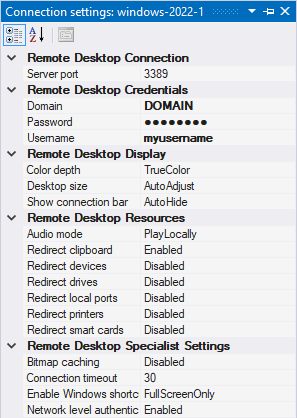
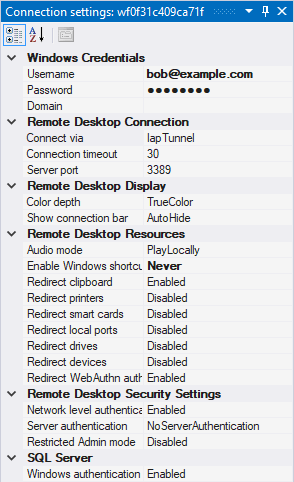
Document connection settings

diff --git a/sources/Google.Solutions.IapDesktop.Extensions.Session/Settings/ConnectionSettings.cs b/sources/Google.Solutions.IapDesktop.Extensions.Session/Settings/ConnectionSettings.cs
@@ -95,7 +95,7 @@ namespace Google.Solutions.IapDesktop.Extensions.Session.Settings
                 _ => true);
             this.RdpConnectionBar = RegistryEnumSetting<RdpConnectionBarState>.FromKey(
                 "ConnectionBar",
-                "Show connection bar",
+                "Connection bar",
                 "Show connection bar in full-screen mode.",
                 Categories.RdpDisplay,
                 RdpConnectionBarState._Default,
@@ -215,7 +215,7 @@ namespace Google.Solutions.IapDesktop.Extensions.Session.Settings
                 key);
             this.RdpHookWindowsKeys = RegistryEnumSetting<RdpHookWindowsKeys>.FromKey(
                 "RdpHookWindowsKeys",
-                "Enable Windows shortcuts",
+                "Windows shortcuts",
                 "Enable Windows shortcuts (like Win+R)",
                 Categories.RdpResources,
                 Protocol.Rdp.RdpHookWindowsKeys._Default,

diff --git a/sources/Google.Solutions.IapDesktop.Extensions.Session/Protocol/Rdp/RdpParameters.cs b/sources/Google.Solutions.IapDesktop.Extensions.Session/Protocol/Rdp/RdpParameters.cs
@@ -222,8 +222,8 @@ namespace Google.Solutions.IapDesktop.Extensions.Session.Protocol.Rdp
         //
         // NB. Values correspond to IMsRdpClientSecuredSettings::KeyboardHookMode.
         //
-        Never = 0,
-        Always = 1,
+        Disabled = 0,
+        Enabled = 1,
         FullScreenOnly = 2,
 
 

diff --git a/sources/Google.Solutions.IapDesktop.Extensions.Session/Controls/RdpClient.cs b/sources/Google.Solutions.IapDesktop.Extensions.Session/Controls/RdpClient.cs
@@ -651,7 +651,6 @@ namespace Google.Solutions.IapDesktop.Extensions.Session.Controls
                     e.Message,
                     args.networkAvailable);
 
-
                 this.State = ConnectionState.Connecting;
             }
         }

diff --git a/doc/site/sources/docs/toolwindow-connection-settings.md b/doc/site/sources/docs/toolwindow-connection-settings.md
@@ -1,0 +1,284 @@
+# Connection settings window
+![Connection settings for a Windows VM](images/Connection-Settings.png){ align=right }
+
+The **Connection settings** window lets you customize how IAP Desktop connects
+to your VMs. You can configure connection settings for individual VMs or entire zones or projects.
+
+Connection settings support inheritance: If you configure a connection setting for a project,
+this setting applies to all zones and VMs in the project. Similarly, if you configure a 
+connection setting for a zone, it applies to all VMs in that zone:
+
+![Settings inheritance](images/Connection-Settings-Inheritance.png)
+
+You can override inherited settings at lower levels. Whenever a setting deviates
+from the (inherited) default, its value is shown in bold typeface.
+
+Connection settings are stored on your local computer and don't
+affect the configuration of the remote VM.
+
+## Windows Credentials
+
+These settings control which user account you log on with. If you don't configure Windows credentials,
+IAP Desktop might prompt you for credentials when you first try to connect.
+
+You can use the following types of user accounts:
+
+* a local Windows user account
+* an Active Directory user account
+
+The user account must have permission to use Remote Desktop. Typically, this requires that the user is either
+a member of the _Administrators_ group or the _Remote Desktop users_ group.
+
+<table>
+    <tr>
+        <th>Setting</th>
+        <th>Description</th>
+        <th>Required</th>
+    </tr>
+    <tr>
+        <td>Username</td>
+        <td>Username or UPN, for example <code>bob</code> or <code>bob@example.com</code>.</td>
+        <td>No</td>
+    </tr>
+    <tr>
+        <td>Password</td>
+        <td>Account password</td>
+        <td>No</td>
+    </tr>
+    <tr>
+        <td>Domain</td>
+        <td> 
+            <ul>
+                <li>Leave blank if you're using an UPN as username</li>
+                <li>Use the NetBIOS domain name if the username is a NetBIOS username</li>
+                <li>Use <code>.</code> if you're using a local Windows user account</li>
+            </ul>
+        </td>
+        <td>No</td>
+    </tr>
+</table>
+
+## Remote Desktop Connection
+
+These settings control how IAP Desktop connects to your VM. You can let IAP Desktop connect in one
+of two ways:
+
+*   `IapTunnel`: By default, IAP Desktop connects to the [internal IP address :octicons-link-external-16:](https://cloud.google.com/compute/docs/ip-addresses#networkaddresses)
+    of your VM [through an IAP-TCP forwarding tunnel :octicons-link-external-16:](https://cloud.google.com/iap/docs/using-tcp-forwarding).
+*   `Vpc`: Alternatively, you can let IAP Desktop connect to the VM's internal IP address through Cloud VPN or Interconnect. If you use this option, 
+    IAP Desktop doesn't use IAP-TCP forwarding.
+    
+<table>
+    <tr>
+        <th>Setting</th>
+        <th>Description</th>
+        <th>Required</th>
+    </tr>
+    <tr>
+        <td>Connect via</td>
+        <td>Controls how IAP Desktop connects to your VM, see description above.</td>
+        <td>Yes</td>
+    </tr>
+    <tr>
+        <td>Connection timeout</td>
+        <td>Timeout for connecting to the VM, in seconds.</td>
+        <td>Yes</td>
+    </tr>
+    <tr>
+        <td>Server port</td>
+        <td>Port to connect to, typically <code>3389</code>.</td>
+        <td>Yes</td>
+    </tr>
+</table>
+
+
+## Remote Desktop Display
+
+These settings control the display settings for Remote Desktop.
+
+<table>
+    <tr>
+        <th>Setting</th>
+        <th>Description</th>
+        <th>Required</th>
+    </tr>
+    <tr>
+        <td>Color depth</td>
+        <td>Color depth to use.</td>
+        <td>Yes</td>
+    </tr>
+    <tr>
+        <td>Connection bar</td>
+        <td>Controls the behavior of the connection bar that's shown when you set the Remote Desktop session to full-screen.</td>
+        <td>Yes</td>
+    </tr>
+</table>
+
+## Remote Desktop Resources
+
+These settings control which local and remote resources you want to share.
+
+<table>
+    <tr>
+        <th>Setting</th>
+        <th>Description</th>
+        <th>Required</th>
+    </tr>
+    <tr>
+        <td>Audio mode</td>
+        <td>Controls where to play back audio.</td>
+        <td>Yes</td>
+    </tr>
+    <tr>
+        <td>Windows shortcuts</td>
+        <td>Controls whether IAP Desktop should send Windows shortcuts (such as <code>Win+R</code>) to the VM:
+            <ul>
+                <li>Disabled: Don't capture shortcuts and handle them locally instead.</li>
+                <li>Enabled: Always capture shortcuts and handle them remotely.</li>
+                <li>FullScreenOnly: Only capture shortcuts when the Remote Desktop session is in full-screen mode.</li>
+            </ul>
+        </td>
+        <td>Yes</td>
+    </tr>
+    <tr>
+        <td>Redirect clipboard</td>
+        <td>Share the local clipboard with the remote VM.</td>
+        <td>Yes</td>
+    </tr>
+    <tr>
+        <td>Redirect printers</td>
+        <td>Share local printers with the remote VM.</td>
+        <td>Yes</td>
+    </tr>
+    <tr>
+        <td>Redirect smart cards</td>
+        <td>Share local smart cards with the remote VM.</td>
+        <td>Yes</td>
+    </tr>
+    <tr>
+        <td>Redirect local ports</td>
+        <td>Share local ports with the remote VM.</td>
+        <td>Yes</td>
+    </tr>
+    <tr>
+        <td>Redirect drives</td>
+        <td>Share local drives with the remote VM.</td>
+        <td>Yes</td>
+    </tr>
+    <tr>
+        <td>Redirect devices</td>
+        <td>Share local devices with the remote VM.</td>
+        <td>Yes</td>
+    </tr>
+    <tr>
+        <td>Redirect WebAuthn authenticators</td>
+        <td>Share WebAuthn authenticators with the remote VM.</td>
+        <td>Yes</td>
+    </tr>
+</table>
+
+
+
+## Remote Desktop Security Settings
+
+These settings control which RDP security mechanism to apply.
+
+<table>
+    <tr>
+        <th>Setting</th>
+        <th>Description</th>
+        <th>Required</th>
+    </tr>
+    <tr>
+        <td>Network level authentication</td>
+        <td>
+            Controls whether to secure connection using <a href='https://learn.microsoft.com/en-us/windows-server/remote/remote-desktop-services/clients/remote-desktop-allow-access'>network level authentication</a>
+            (NLA). 
+            <br><br>
+            Leave NLA enabled unless you're connecting to a VM that uses a custom credential service provider such as the <a href='https://tools.google.com/dlpage/gcpw/'>Google Credential Provider for Windows</a>.
+            <br><br>
+            Disabling NLA automatically enables server authentication.
+        </td>
+        <td>Yes</td>
+    </tr>
+    <tr>
+        <td>Server authentication</td>
+        <td>
+            Controls whether to verify the VM's TLS certificate.
+            <br><br>
+            By default, IAP Desktop connects to the VM through an IAP-TCP forwarding tunnel. Tunneled connections
+            use a hostname such as <code>localhost:12345</code>, which is different from the VM's canonical hostname.
+            Because of this mismatch, certificate verification is unlikely to succeed and therefore off by default.
+        </td>
+        <td>Yes</td>
+    </tr>
+    <tr>
+        <td>Restricted Admin mode</td>
+        <td>
+            Controls whether to use <a href='https://learn.microsoft.com/en-us/windows/security/identity-protection/remote-credential-guard?tabs=intune'>Restricted Admin mode</a>,
+            which disables the transmission of reusable credentials to the VM. 
+            <br><br>
+            To use Restricted Admin mode, you must ensure that the following prerequisites are met:
+            <ul>
+                <li>You're using a user account that has local administrator privileges on the VM.</li>
+                <li>You've configured the VM to <a href='https://social.technet.microsoft.com/wiki/contents/articles/32905.remote-desktop-services-enable-restricted-admin-mode.aspx'>permit Restricted Admin mode</a>.</li>
+            </ul>
+            If you don't meet these prerequisites, connecting to the VM might fail with the error <i>Account restrictions are preventing this user from signing in</i>.
+        </td>
+        <td>Yes</td>
+    </tr>
+</table>
+
+## SSH Connection
+
+These settings control how IAP Desktop connects to your VM. The settings are analogous to the 
+[Remote Desktop Connection](#remote-desktop-connection) settings.
+
+## SSH Credentials
+
+These settings control which user account you log on with, and which authentication method to use.
+
+IAP Desktop supports the following SSH authentication methods:
+
+*   `publickey`
+*   `password`
+*   `keyboard-interactive`
+
+When you use `publickey`, IAP Desktop automatically publishes a public key to the VM, and uses the corresponding private key to authenticate.
+Depending on the VM's configuration, IAP Desktop uses either [OS Login :octicons-link-external-16:](https://cloud.google.com/compute/docs/oslogin)
+or [metadata keys :octicons-link-external-16:](https://cloud.google.com/compute/docs/connect/add-ssh-keys) to publish the public key.
+
+
+<table>
+    <tr>
+        <th>Setting</th>
+        <th>Description</th>
+        <th>Required</th>
+    </tr>
+    <tr>
+        <td>Public key authentication</td>
+        <td>
+            Controls the authentication method to use:
+            
+            <ul>
+                <li>Enabled: Use <code>publickey</code> authentication and let IAP Desktop automatically create an SSH key and publish it using OS Login or metadata keys. </li>
+                <li>Disabled: Use <code>password</code> or <code>keyboard-interactive</code>-based authentication.</li>
+            </ul>
+        </td>
+        <td>Yes</td>
+    </tr>
+    <tr>
+        <td>Username</td>
+        <td>
+            Linux/Unix username. 
+            <br><br>
+            This setting is ignored when using OS Login because OS Login automatically determines your username.
+        </td>
+        <td>No</td>
+    </tr>
+    <tr>
+        <td>Password</td>
+        <td>Linux/Unix password</td>
+        <td>No</td>
+    </tr>
+</table>

diff --git a/doc/site/sources/docs/connect-linux.md b/doc/site/sources/docs/connect-linux.md
@@ -47,7 +47,7 @@ an entire zone or projects:
 1.  In the **Connection Settings** window, customize settings as needed. The settings apply to all VM instances
     in the respective zone or project, unless explicitly overridden.
 
-
+For more information about customizing connection settings, see [Connection settings](toolwindow-connection-settings.md).
 
 
 ## Frequently Asked Questions

diff --git a/doc/site/sources/docs/connect-windows.md b/doc/site/sources/docs/connect-windows.md
@@ -62,7 +62,7 @@ an entire zone or projects:
 1.  In the **Connection Settings** window, customize settings as needed. The settings apply to all VM instances
     in the respective zone or project, unless explicitly overridden.
 
-
+For more information about customizing connection settings, see [Connection settings](toolwindow-connection-settings.md).
 
 
 ## Frequently Asked Questions
